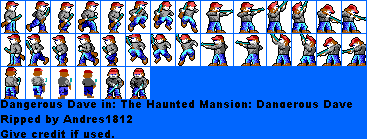
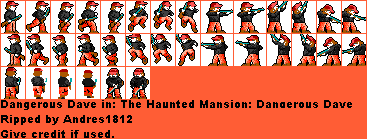
Changed player's color Added Dmitry the gunsmith Added a new down-directing map Minor sonud Fix for big quantities of sounds played at the same time

diff --git a/DangerousD/GameCore/GameObjects/Entities/Dmitry.cs b/DangerousD/GameCore/GameObjects/Entities/Dmitry.cs
@@ -1,0 +1,74 @@
+using DangerousD.GameCore.GameObjects.Entities.Items;
+using DangerousD.GameCore.GameObjects.LivingEntities;
+using DangerousD.GameCore.Graphics;
+using Microsoft.Xna.Framework.Graphics;
+using Microsoft.Xna.Framework;
+using System;
+using System.Collections.Generic;
+using System.Linq;
+using System.Text;
+using System.Threading.Tasks;
+
+namespace DangerousD.GameCore.GameObjects.Entities
+{
+    internal class Dmitry : Entity
+    {
+        private Rectangle _sourceRectangle;
+        Random random = new Random();
+        protected bool isUppingPrev = true;
+        public Dmitry(Vector2 position) : base(position)
+        {
+            Width = (int)20;
+            Height = (int)50;
+             
+        }
+
+        protected override GraphicsComponent GraphicsComponent { get; } = new(new List<string> { "dmitry_static" }, "dmitry_static"); 
+
+        public override void Update(GameTime gameTime)
+        { 
+            base.Update(gameTime);
+            delay--;
+            if (delay<-1000)
+            {
+                delay = 10;
+            }
+        }
+
+        public override void Draw(SpriteBatch spriteBatch)
+        {
+            GraphicsComponent.DrawAnimation(Rectangle, spriteBatch, _sourceRectangle);
+            base.Draw(spriteBatch);
+            //spriteBatch.Draw(debugTexture, new Rectangle(Rectangle.X - GraphicsComponent.CameraPosition.X, Rectangle.Y - GraphicsComponent.CameraPosition.Y, Rectangle.Width, Rectangle.Height), Color.White);
+        }
+        int delay = 0;
+        public override void OnCollision(GameObject gameObject)
+        {
+            base.OnCollision(gameObject);
+
+            if (gameObject is Player)
+            {
+                Player player = (Player)gameObject;
+                if (player.isUping && !player.IsRunning && delay < 0)
+                    OpenDoor();
+
+            }
+        }
+        public void OpenDoor()
+        {
+            delay += 100;
+            //AppManager.Instance.GameManager.Remove(this);
+            //тут спавн лута
+            for (int i = 0; i < random.Next(0, 6); i++)
+            {
+                var d = new Diamond(Vector2.Zero);
+                d.SetPosition(Pos + new Vector2(random.Next(-60, 60), Height - d.Height));
+            }
+            if (random.NextDouble() < 0.45)
+            {
+                var a = new Ammo(Vector2.Zero);
+                a.SetPosition(Pos + new Vector2(random.Next(-60, 60), Height - a.Height + 4/*to look better*/));
+            }
+        }
+    }
+}

diff --git a/DangerousD/GameCore/GameObjects/Entities/Items/Diamond.cs b/DangerousD/GameCore/GameObjects/Entities/Items/Diamond.cs
@@ -3,6 +3,7 @@ using DangerousD.GameCore.Graphics;
 using Microsoft.Xna.Framework;
 using System;
 using System.Collections.Generic;
+using System.ComponentModel.DataAnnotations;
 using static System.Formats.Asn1.AsnWriter;
 
 namespace DangerousD.GameCore.GameObjects.Entities.Items;
@@ -10,12 +11,36 @@ namespace DangerousD.GameCore.GameObjects.Entities.Items;
 public class Diamond : Entity
 {
     Random random = new Random();
+    int scal; //scale of an object
+    double del = 0; //time from creation
     public Diamond(Vector2 position) : base(position)
     {
-        int scal = random.Next(3, 12);
+        scal = random.Next(3, 12);
         Width = scal;
         Height = scal;
         GraphicsComponent.StartAnimation("Diamond");
+    }
+    Vector2 targetPosition;
+    public override void SetPosition(Vector2 position)
+    {
+        targetPosition = position;
+        base.SetPosition(position);
+    }
+    public override void Update(GameTime gameTime)
+    {
+        del = Math.Min(1, del + gameTime.ElapsedGameTime.TotalSeconds);//find dt of scale animation
+        Width = (int)(scal * easeOutElastic(del / 1)); //apply easeOut
+        Height = (int)(scal * easeOutElastic(del / 1)); //apply easeOut
+        _pos = targetPosition + new Vector2(scal / 2, scal) - new Vector2(Width/2, Height); // set position to draw correctly
+        base.Update(gameTime);
+    }
+    public double easeOutElastic(double x)
+    {
+
+        double c1 = 1.70158;
+        double c2 = c1 * 1.525;
+        double c4 = (2 * Math.PI) / 3;
+        return 0.5 + (Math.Pow(2, -10 * x) * Math.Sin((x * 10 - 0.75) * c4) + 1); 
     }
 
     protected override GraphicsComponent GraphicsComponent { get; } = new GraphicsComponent(new List<string>() { "Diamond" }, "Diamond");

diff --git a/DangerousD/GameCore/GameObjects/Entities/Items/Ammo.cs b/DangerousD/GameCore/GameObjects/Entities/Items/Ammo.cs
@@ -12,12 +12,36 @@ namespace DangerousD.GameCore.GameObjects.Entities.Items
     internal class Ammo:Entity
     {
         Random random = new Random();
+        int scal; //scale of an object
+        double del = 0; //time from creation
         public Ammo(Vector2 position) : base(position)
         {
-            int scal = 20;
+            scal = 10;
             Width = scal;
             Height = scal;
             GraphicsComponent.StartAnimation("Ammo");
+        }
+        Vector2 targetPosition;
+        public override void SetPosition(Vector2 position)
+        {
+            targetPosition = position;
+            base.SetPosition(position);
+        }
+        public override void Update(GameTime gameTime)
+        {
+            del = Math.Min(1, del + gameTime.ElapsedGameTime.TotalSeconds);//find dt of scale animation
+            Width = (int)(scal * easeOutElastic(del / 1)); //apply easeOut
+            Height = (int)(scal * easeOutElastic(del / 1)); //apply easeOut
+            _pos = targetPosition + new Vector2(scal / 2, scal) - new Vector2(Width / 2, Height); // set position to draw correctly
+            base.Update(gameTime);
+        }
+        public double easeOutElastic(double x)
+        {
+
+            double c1 = 1.70158;
+            double c2 = c1 * 1.525;
+            double c4 = (2 * Math.PI) / 3;
+            return 0.5 + 2*(Math.Pow(2, -10 * x) * Math.Sin((x * 10 - 0.75) * c4) + 1);
         }
 
         protected override GraphicsComponent GraphicsComponent { get; } = new GraphicsComponent(new List<string>() { "Ammo" }, "Ammo");

diff --git a/DangerousD/GameCore/Managers/SoundManager.cs b/DangerousD/GameCore/Managers/SoundManager.cs
@@ -60,7 +60,14 @@ namespace DangerousD.GameCore
             sound.SoundEffect.IsLooped = false;
             sound.SoundEffect.Volume = sound.baseVolume * AppManager.Instance.SettingsManager.SoundEffectsVolume * AppManager.Instance.SettingsManager.MainVolume;
             sound.SoundEffect.Pitch = pitch;
-            sound.SoundEffect.Play();
+            try
+            {
+                sound.SoundEffect.Play();
+            }
+            catch 
+            {
+
+            }
             PlayingSounds.Add(sound);
 
             if (AppManager.Instance.multiPlayerStatus == MultiPlayerStatus.Host) 

diff --git a/DangerousD/GameCore/Managers/AppManager.cs b/DangerousD/GameCore/Managers/AppManager.cs
@@ -82,7 +82,7 @@ namespace DangerousD.GameCore
             DebugHUD = new DebugHUD();
             UIManager.resolution = resolution;
             UIManager.resolutionInGame = inGameResolution;
-            currentMap = "lvl2";
+            currentMap = "lvl1";
         }
 
         protected override void Initialize()
